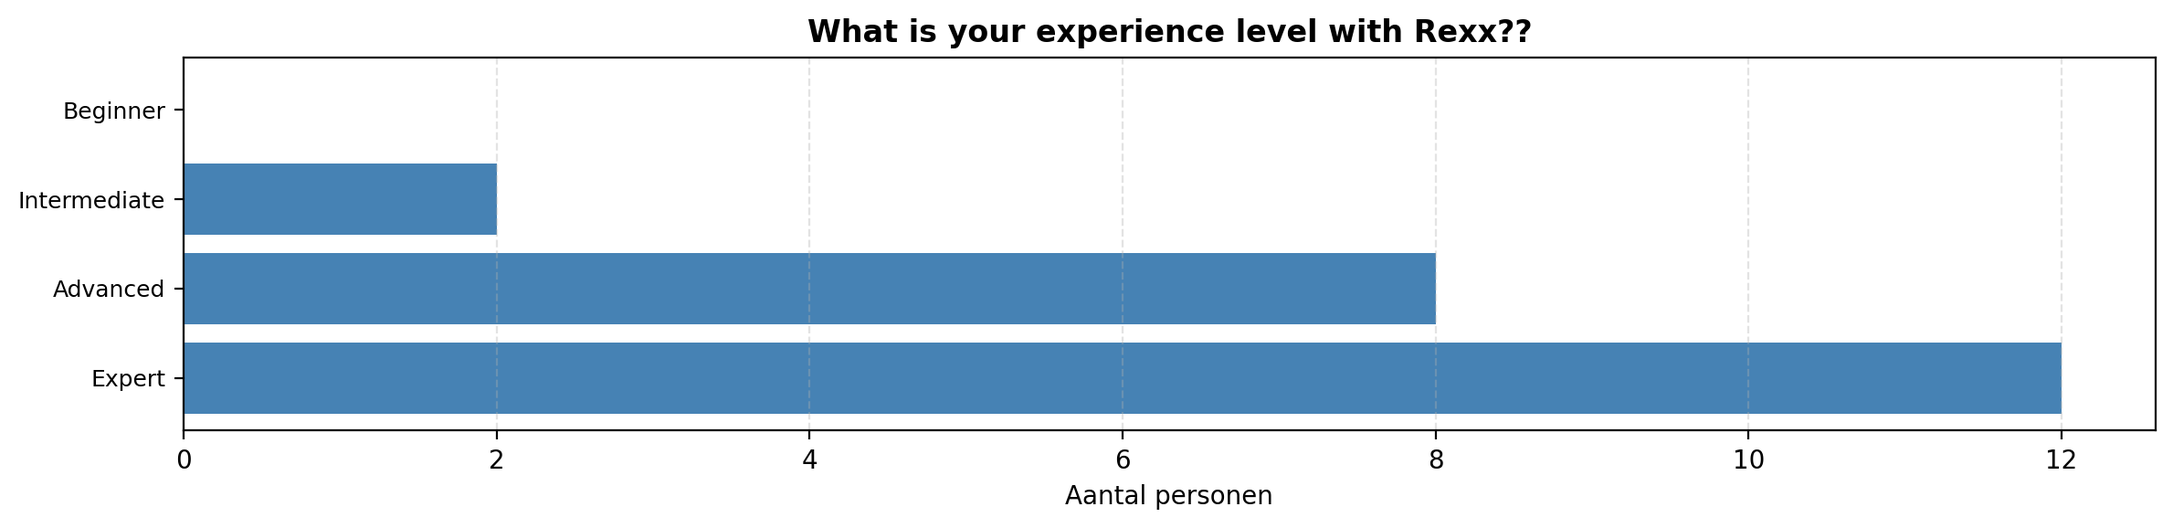
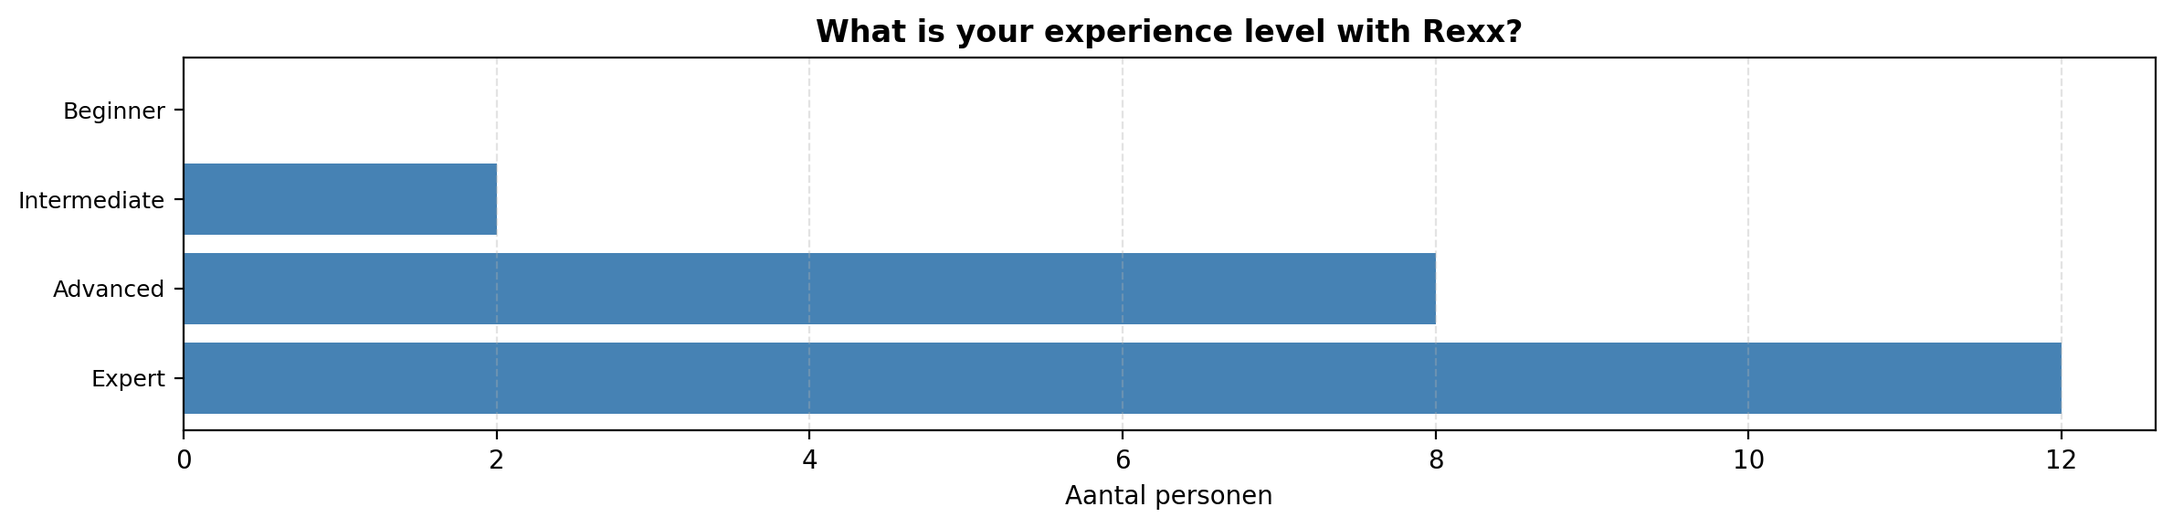
added last plot + requirements detailed

Changed region(s): [[0.3733, 0.0311, 0.7154, 0.0934]]

diff --git a/bachproef/standvanzaken.tex b/bachproef/standvanzaken.tex
@@ -33,13 +33,13 @@ Automatisatie (onderzoek) kan als volgt worden beschreven:
 
 “Automation research emphasizes efficiency, productivity, quality, and reliability, focusing on systems that operate autonomously, often in structured environments over extended periods, and on the explicit structuring of such environments.” \autocite{Goldberg2012}
 
-Automatisatie wordt niet enkel gebruikt in IT, maar het is er wel fel aanwezig. Dat komt doordat men met de hulp van automatisatie manuele taken kan uitvoeren door een programma, waardoor er meer tijd vrijkomt voor andere zaken. Automatisatie is zeker met de opkomst van virtualisatie belangrijk geworden. Virtualisatie is wanneer een server (typisch een x86 server) wordt opgesplitst in meerdere kleine servers, om zo optimaal gebruik te kunnen maken van de beschikbare resources. Om elke nieuwe kleinere server op te zetten met zijn eigen systeem, zouden elke keer dezelfde commando’s moeten worden uitgevoerd per server. Om dat te vermijden kan dat proces worden geautomatiseerd. Om ervoor te zorgen dat dit op een kwaliteitsvolle en betrouwbare manier gebeurt, kan men scripts maken, waarin met behulp van logica verschillende scenario's die zich kunnen voordoen, worden behandeld. Dit is slechts een simpel voorbeeld, maar het geeft een idee van de mogelijkheden van automatisatie.  (Interview met Bobby)
+Automatisatie wordt niet enkel gebruikt in IT, maar het is er wel fel aanwezig. Dat komt doordat men met de hulp van automatisatie manuele taken kan uitvoeren door een programma, waardoor er meer tijd vrijkomt voor andere zaken. Automatisatie is zeker met de opkomst van virtualisatie belangrijk geworden. Virtualisatie is wanneer een server (typisch een x86 server) wordt opgesplitst in meerdere kleine servers, om zo optimaal gebruik te kunnen maken van de beschikbare resources. Om elke nieuwe kleinere server op te zetten met zijn eigen systeem, zouden elke keer dezelfde commando’s moeten worden uitgevoerd per server. Om dat te vermijden kan dat proces worden geautomatiseerd. Om ervoor te zorgen dat dit op een kwaliteitsvolle en betrouwbare manier gebeurt, kan men scripts maken, waarin met behulp van logica verschillende scenario's die zich kunnen voordoen, worden behandeld. Dit is slechts een simpel voorbeeld, maar het geeft een idee van de mogelijkheden van automatisatie.  (Interview met Bobby, \ref{InterviewBobby})
 
 \subsection{Automatisatie op mainframe}
 Aangezien mainframes enkele jaren ouder zijn dan de typische consument gerichte computers, is het niet onlogisch dat automatisatie op het mainframe ook een zekere voorsprong had. Als men op het mainframe spreekt over automatisatie denkt men eerst en vooral aan zogeheten “batch jobs”. \textcites{Powell2024} beschrijft batch jobs als 'any regularly occurring automated process that groups similar tasks and performs them automatically without needing to be prompted by human interaction'. 
 
-Powell legt uit dat er grote voordelen zijn aan het gebruiken van batch jobs. Een van die voordelen is het verminderen van fouten door gebruikers, omdat de interactie met gebruikers wordt verminderd tot een minimum. Een ander voordeel van batch jobs is dat ze kunnen worden uitgevoerd op een moment ideaal voor het bedrijf. Meestal worden zulke batch jobs aan het begin of einde van de werkdag uitgevoerd, afhankelijk van hun functie. Ook worden batch jobs vaak ‘s nachts uitgevoerd, wanneer het systeem voor de rest minieme gebruikers input verwacht. Denk aan een bank die doorheen de dag voortdurend bezig is met allerhande klantgerichte zaken. Die bank kan dan ‘s nachts, wanneer de meeste mensen geen betalingen aan het uitvoeren zijn, batch jobs uitvoeren, zonder dat klanten enige vertraging merken op het systeem door de hoge werkkracht die batch jobs vragen. Om zulke batch jobs in te plannen, ook wel scheduling genoemd, wordt er op het mainframe veel gebruikgemaakt van JCL(Job Control Language). JCL komt later nog aan bod in één van de use cases van deze paper (Interview met Bobby).
-Naast batch jobs en JCL, worden er op het mainframe ook scripts geschreven om routinematige taken te automatiseren. Voorbeelden hiervan zijn het aanmaken van gebruikers, het uitdelen van rechten, het behandelen van berichten op de log, en meer. Het schrijven van deze scripts gebeurt in grote mate via JCL en REXX, afhangende van de gewenste functie.(Interview met Bobby)
+Powell legt uit dat er grote voordelen zijn aan het gebruiken van batch jobs. Een van die voordelen is het verminderen van fouten door gebruikers, omdat de interactie met gebruikers wordt verminderd tot een minimum. Een ander voordeel van batch jobs is dat ze kunnen worden uitgevoerd op een moment ideaal voor het bedrijf. Meestal worden zulke batch jobs aan het begin of einde van de werkdag uitgevoerd, afhankelijk van hun functie. Ook worden batch jobs vaak ‘s nachts uitgevoerd, wanneer het systeem voor de rest minieme gebruikers input verwacht. Denk aan een bank die doorheen de dag voortdurend bezig is met allerhande klantgerichte zaken. Die bank kan dan ‘s nachts, wanneer de meeste mensen geen betalingen aan het uitvoeren zijn, batch jobs uitvoeren, zonder dat klanten enige vertraging merken op het systeem door de hoge werkkracht die batch jobs vragen. Om zulke batch jobs in te plannen, ook wel scheduling genoemd, wordt er op het mainframe veel gebruikgemaakt van JCL(Job Control Language). JCL komt later nog aan bod in één van de use cases van deze paper (Interview met Bobby, \ref{InterviewBobby}).
+Naast batch jobs en JCL, worden er op het mainframe ook scripts geschreven om routinematige taken te automatiseren. Voorbeelden hiervan zijn het aanmaken van gebruikers, het uitdelen van rechten, het behandelen van berichten op de log, en meer. Het schrijven van deze scripts gebeurt in grote mate via JCL en REXX, afhangende van de gewenste functie.(Interview met Bobby, \ref{InterviewBobby})
 
 \subsection{Scripting}
 Zowel JCL, Rexx en Python worden omschreven als scripting talen. Scripting is een bepaalde vorm van programmeren. Een script is een programma dat vooral dient als een soort lijm tussen andere programma’s in plaats van dat het zelf veel functionaliteit toevoegt. Bij het schrijven van een script gaat men ervan uit dat er reeds programma’s met functionaliteiten bestaan, om deze met elkaar te verbinden. Zo kan Rexx bijvoorbeeld een DB2 databank aanroepen om bepaalde data uit een tabel te filteren. Die data wordt dan in een nieuwe dataset gestoken, om nadien gemaild te worden naar verschillende mensen. Al deze zaken, zoals de databank, het aanmaken van een nieuwe dataset, en de mailfunctie zijn functionaliteiten die bestaan buiten Rexx. Rexx is de lijm die ervoor zorgt dat die functionaliteiten kunnen samenwerken. \textcite{Ousterhout1998} legt uit dat scripting gebruik maakt van een andere manier van code schrijven, zonder types, wat het simpeler maakt om verschillende componenten met elkaar te verbinden, met minder restricties. Hij voorspelde dat de populariteit van scripting in de toekomst enkel zou stijgen. Dit omdat er al enorme vooruitgang was geboekt op vlak van talen. Daarnaast zou de verbeterde snelheid van computers ervoor zorgen dat de tragere scripting talen meer kansen zouden krijgen, omdat het verschil in snelheid met andere efficiëntere systeem talen, zoals assembler, minder impact zou hebben op de totale snelheid van een programma. Of beide argumenten evenveel hebben bijgedragen tot de groei van scripting, is niet voor deze bachelorproef om te stellen. Maar over de groei van scripting en automatisatie is geen twijfel mogelijk. Als laatste argument stelt \textcite{Ousterhout1998} dat de leercurve van een scripting taal vrij klein is vanwege de vaak vrij simpele syntax. Dit zorgt ervoor dat er een grotere community ontstaat, waardoor de scripting talen nog beter en populairder worden. Dit is een fenomeen dat zich heeft voorgedaan bij Python, een moderne scripting taal, die later in dit hoofdstuk nog aan bod komt \autocite{Lindstrom2005}.
@@ -105,7 +105,7 @@ Een eerste nadeel van Rexx is wat eerder werd vermeld als voordeel, dat de taal 
 Veel van de eerder vermelde nadelen van Rexx zijn voordelen van Python. Python is enorm populair, dus van een tekort aan werkkrachten is geen sprake \autocite{Sanglier2022}. Dankzij zijn populariteit heeft Python een overvloed aan externe libraries die, als de kernfunctionaliteiten van Python niet genoeg zijn, vaak een oplossing kunnen bieden voor een probleem. Het is aangeraden om eerst op zoek te gaan naar een bestaande Python library voordat men zelf begint code te schrijven om een probleem op te lossen, om te vermijden dat men het wiel opnieuw uitvindt \autocite{Lindstrom2005}. Ook op vlak van resources om Python te leren is er een overvloed. Python is vaak een van de enige talen die ook aan niet-IT’ers wordt aangeleerd, wat toont dat er geen uitgebreide achtergrondkennis nodig is om de taal onder de knie te krijgen. Als laatste kan Python zonder problemen samenwerken met allerhande moderne technologie, en zet het de deur open om in de toekomst snel in te spelen op veranderingen \autocite{Gilio2021}.
 
 \subsection{Nadelen Python}
-De populariteit van Python is kenmerkend aan het feit dat er weinig artikels te vinden zijn die praten over de nadelen van Python. De meeste artikels lijken te suggereren dat Python trager is dan andere talen die dichter bij het besturingssysteem staan, zoals Rexx. Echter kan dit, zoals eerder vermeld, niet geverifieerd worden in deze bachelorproef. Uit het interview met Bobby en uit deze blog van \textcite{Redwerk2024}, is gebleken dat een groot nadeel van Python is dat er problemen kunnen ontstaan over afhankelijkheden, ook wel dependencies genoemd. Dankzij de vele libraries en packages die Python zo goed maken, kan er soms overlap zijn in een bedrijf. Als een team met één versie van een package werkt, en code doorgeeft naar een ander team, dat met een andere versie aan het werk is, dan kunnen er conflicten ontstaan die vervelend zijn om op te lossen. Ook is uit het interview met Bobby gebleken dat Python niet dezelfde toegang heeft tot het mainframe als Rexx. Via ZOAU kan Python wel redelijk gemakkelijk communiceren met het mainframe, het komt nog altijd niet in de buurt van de verwevenheid die Rexx heeft met mainframe functionaliteiten.
+De populariteit van Python is kenmerkend aan het feit dat er weinig artikels te vinden zijn die praten over de nadelen van Python. De meeste artikels lijken te suggereren dat Python trager is dan andere talen die dichter bij het besturingssysteem staan, zoals Rexx. Echter kan dit, zoals eerder vermeld, niet geverifieerd worden in deze bachelorproef. Uit het interview met Bobby (\ref{InterviewBobby}) en uit deze blog van \textcite{Redwerk2024}, is gebleken dat een groot nadeel van Python is dat er problemen kunnen ontstaan over afhankelijkheden, ook wel dependencies genoemd. Dankzij de vele libraries en packages die Python zo goed maken, kan er soms overlap zijn in een bedrijf. Als een team met één versie van een package werkt, en code doorgeeft naar een ander team, dat met een andere versie aan het werk is, dan kunnen er conflicten ontstaan die vervelend zijn om op te lossen. Ook is uit het interview met Bobby (\ref{InterviewBobby}) gebleken dat Python niet dezelfde toegang heeft tot het mainframe als Rexx. Via ZOAU kan Python wel redelijk gemakkelijk communiceren met het mainframe, het komt nog altijd niet in de buurt van de verwevenheid die Rexx heeft met mainframe functionaliteiten.
 
 \subsection{Overzicht}
 In tabel \ref{tab:example} kan er een overzicht worden teruggevonden van enkele elementen waar Rexx en Python al dan niet goed op scoren. De vinkjes beteken enkel dat er een duidelijke winnaar is, niet dat de verliezer de vermelde functionaliteit helemaal niet heeft. Deze tabel geldt enkel als overzicht van de voor-en nadelen die in deze sectie zijn vermeld.

diff --git a/bachproef/Requirementsanalyse.tex b/bachproef/Requirementsanalyse.tex
@@ -2,19 +2,21 @@
 \label{ch:requirementsanalyse}
 
 
-In de requirementsanalyse worden twee vragen beantwoord. Ten eerste wordt er bepaald welke use cases of functies zullen worden uitgevoerd in de PoC's om Python en Rexx aan elkaar te vergelijken. Ten tweede wordt er bepaald aan de hand van welke succescriteria zal worden bepaald of een use case succesvol kan worden uitgevoerd door een van beide talen.
+In de requirementsanalyse worden twee vragen beantwoord. Ten eerste wordt er bepaald welke use cases of functies zullen worden uitgevoerd in de PoC's om Python en Rexx aan elkaar te vergelijken. Ten tweede wordt er bepaald welke succescriteria zullen worden gebruikt om de uitvoering van een use case door de twee talen te vergelijken.
 
-Er worden verschillende methodes toegepast om deze requirements te verkrijgen. Er worden interviews uitgevoerd, en daarnaast wordt een enquête opgesteld, om zo input te krijgen van de mainframe gemeenschap.
+Er worden verschillende methodes toegepast om deze requirements te verkrijgen. Er worden interviews uitgevoerd, en daarnaast wordt een enquête opgesteld, om zo input te krijgen van de mainframe gemeenschap. Ook de input van de co-promotor wordt gebruikt om de knoop door te hakken bij de keuze over welke requirements uiteindelijk worden gebruikt.
 
 \section{Interviews}
-Omdat de enquête genoeg reacties heeft gebracht, was het niet nodig om meerdere interviews te doen om input te verkrijgen. Er is wel een interview gedaan met Emma Skovgård. Emma staat bekent als grote Python enthousiast voor het z/OS platform. Een groot deel van de mensen die momenteel met mainframes werken, heeft een voorkeur voor de huidige tools. Daarom bracht dit interview een grote meerwaarde om de huidige stand van zaken, en de toekomst van het mainframe te zien door de lens van iemand die er waarschijnlijk nog vrij lang mee gaat werken. Dit interview heeft voornamelijk bijgedragen aan de stand van zaken en de eerste vergelijking tussen Rexx en Python. Voor de use cases en requirements heeft Emma ook de enquête ingevuld, dus haar input komt daar ook terug.
+Omdat de enquête veel reacties heeft gebracht, was het niet nodig om meerdere interviews af te nemen om input te verkrijgen. Er is wel een interview gedaan met Emma Skovgård. Emma werkt als 'Information Security Professional' en staat bekent als grote Python enthousiast voor het z/OS platform, en is heel actief in de mainframe community, zowel op Linkedin als op de Discord gemeenschap. Een groot deel van de mensen die momenteel met mainframes werken, heeft een voorkeur voor de tools die al jaren de standaard zijn. Daarom bracht dit interview een grote meerwaarde om de huidige stand van zaken en de toekomst van het mainframe te zien door de lens van iemand die er waarschijnlijk nog vrij lang mee gaat werken. Dit interview heeft voornamelijk bijgedragen aan het hoofdstuk over de stand van zaken en aan de eerste vergelijking tussen Rexx en Python gedaan in de literatuurstudie. Voor de use cases en requirements heeft Emma ook de enquête ingevuld, dus haar input komt daar ook terug.
 
-Er zijn daarnaast verschillende sessies met de co-promoter van deze bachelorproef georganiseerd. Een van die sessies wordt beschouwd als interview, omdat daar voornamelijk informatie en kennis over de geschiedenis van het mainframe en automatisatie in werd besproken. Dit interview draagt op die manier opnieuw voornamelijk bij aan de stand van zaken.
+Er zijn daarnaast verschillende sessies met de co-promoter van deze bachelorproef georganiseerd, Bobby Tjassens. Bobby is een ervaren system programmer en ook heel actief in de gemeenschap. Een van die sessies wordt beschouwd als interview, omdat daar voornamelijk informatie en kennis over de geschiedenis van het mainframe en automatisatie in werd besproken. Dit interview draagt op die manier opnieuw voornamelijk bij aan de stand van zaken.
+
+Zowel Emma als Bobby zijn (mede)developers van een open source project, genaamd \href{https://github.com/Mainframe-Renewal-Project/sear/tree/main}{SEAR}. SEAR komt later nog aan bod in dit onderzoek.
 
 \section{Enquête}
 De bedoeling van de enquête was om zoveel mogelijk input te verkrijgen van de mainframe gemeenschap, omdat de resultaten van dit onderzoek mede bedoeld zijn voor die doelgroep. Daarnaast is de gemeenschap zodanig klein en behulpzaam dat dit een goede manier leek om discussies gaande te krijgen en zo nog meer input te verkrijgen. De enquête is op het moment van schrijven en verwerking van de resultaten 22 keer ingevuld. Daarnaast is er ook veel reactie gekomen op de Linkedin post om de enquête te promoten. Al die reacties samen hebben ervoor gezorgd dat er meer dan voldoende requirements en use cases zijn verzameld om uit te kiezen voor dit onderzoek. De enquête is als bijlage toegevoegd in \ref{ch:Enquete}.
-    
-Voordat de resultaten van de enquête worden geanalyseerd, is het essentieel om de demografische kenmerken van de respondenten te bekijken. Als die te eenzijdig is, bijvoorbeeld enkel studenten, mensen met een sterke taalvoorkeur of anonieme deelnemers, zou dat de waarde van de resultaten beperken. In de afbeeldingen \ref{fig:mainframe-exp}, \ref{fig:rexx-exp} and \ref{fig:python-exp}.
+
+Voordat de resultaten van de enquête kunnen worden geanalyseerd, is het essentieel om de demografische kenmerken van de respondenten te bekijken. Als die te eenzijdig zijn, bijvoorbeeld enkel studenten, mensen met een sterke taalvoorkeur of anonieme deelnemers, zou dat de waarde van de resultaten beperken. In de afbeeldingen \ref{fig:mainframe-exp}, \ref{fig:rexx-exp}, \ref{fig:python-exp} en \ref{fig:personal-info} worden de demografische kenmerken afgebeeld. Uit deze afbeeldingen valt af te leiden dat het algemene ervaringsniveau met mainframe vrij hoog ligt. Hetzelfde geldt voor de ervaring met Rexx. Deze twee kunnen natuurlijk aan elkaar gelinkt zijn. De ervaring met Python is een pak minder. Een mogelijke reden kan zijn dat een groot deel van de correspondenten ervaren mainframers zijn die nog niet veel ervaring hebben met nieuwere talen zoals Python. Een andere mogelijke reden kan zijn dat Rexx een taal is die zo goed als elke mainframer moet kennen, terwijl Python een (tot zover) optionele taal is om te kunnen werken met mainframe. Beide zijn mogelijk, maar geen van beide is zeker, dus worden er verder geen conclusies getrokken uit deze afbeeldingen verder dan dat het ervaringsniveau hoog genoeg is, vooral met mainframe en Rexx, om de gegeven requirements als geloofwaardig te beschouwen. Hetzelfde geldt voor de laatste afbeelding (\ref{fig:personal-info}), waarop te zien is hoeveel correspondenten hun naam en/of contactgegevens achterlieten. Hoewel dit niks zegt over de waarde van hun antwoorden, kan dit wel een indicatie geven over de intentie van het invullen van de enquête. Als iemand zijn of haar naam achterlaat, kan er geverifieerd worden dat de antwoorden afkomstig zijn van een echt persoon, en kan hun achtergrond worden bekeken om te zien of die overeenkomt met de gegeven antwoorden. Hoewel het nog steeds mogelijk is dat iemand een valse naam opgeeft, wordt er in dit onderzoek vanuit gegaan - gezien hoe klein en behulpzaam de mainframe gemeenschap is - dat bijna alle antwoorden afkomstig zijn van echte mensen met goede bedoelingen. In het slechtste geval kan er worden teruggevallen op de ervaring van de co-promotor van dit onderzoek om de geloofwaardigheid en haalbaarheid van bepaalde use cases en requirements te verifiëren.
 
 \begin{figure} [h]
     \centering
@@ -32,6 +34,12 @@ Voordat de resultaten van de enquête worden geanalyseerd, is het essentieel om 
     \centering
     \includegraphics[width=1\textwidth]{demografie-python-experience.png}
     \caption[Afbeelding die de python ervaring voorstelt van de mensen die de enquête hebben ingevuld]{\label{fig:python-exp}De jaren ervaring met Python op z/OS door de correspondenten van de enquête.}
+\end{figure}
+
+\begin{figure} [h]
+    \centering
+    \includegraphics[width=1\textwidth]{demografie-personal-info-share.png}
+    \caption[Afbeelding die weergeeft hoeveel mensen hun naam en/of contactgegevens hebben achtergelaten]{\label{fig:personal-info}De hoeveelheid mensen die gegevens hebben achtergelaten op de enquête.}
 \end{figure}
 
 

diff --git a/bachproef/interviews.tex b/bachproef/interviews.tex
@@ -1,2 +1,29 @@
 \chapter{Interviews}%
 \label{ch:Interviews}
+
+\section{Interview met Emma Skovgård}
+\label{InterviewEmma}
+
+\section{Interview met Bobby Tjassens}
+\label{InterviewBobby}
+\textbf{Vincent: Wat is jouw blik op de geschiedenis van automation op Z?}
+
+
+Bobby:
+Ik ben begonnen in 1998, zo'n beetje rond de tijd dat het mainframe voor 't eerst voorspeld werd end of life te zijn (zal je niet verbazen: is niet uit is gekomen). Dat was ook de tijd dat client-server zijn opkomst had. Voor die tijd was het mainframe, voor de bedrijven die er eentje hadden, ook meteen het énige dat ze hadden. Het mainframe stond volledig op zichzelf, alles wat nodig was draaide op diezelfde box en ondanks dat er toen nog niemand gehoord had van automation, was automation volop aanwezig. Daarmee bedoel ik vooral scheduling van jobs (JCL) en scripts voor routinematige taken (opvoeren users, uitdelen rechten, afhandeling van messages op de log door system automation, compileren en link-edit van applicatie programma's, etc.).
+
+Client-server was de benaming voor de exponentiële groei van X86 servers met applicaties en grafische user interfaces. Veel van die applicaties hadden behoefte aan de data op het mainframe en dat veroorzaakte een grote verschuiving van online transactieverkeer van terminal based naar service oriented. Ondanks dat het mainframe niet langer volledig op zichzelf stond (want zonder de X86 componenten = geen applicatie voor de eindgebruiker) bleef het mainframe het grotendeels "op z'n mainframes" doen. Dit was een tijd van veel arrogatie op het mainframe, de X86 betrokkenen hebben veel problemen ervaren die het mainframe misschien jaren geleden ook had, maar al geruime tijd had opgelost (op hun eigen manier). Er was naar mijn mening maar weinig kruisbestuiving, hooguit in de vorm van cross-platform scheduling (waarbij mainframe de regie nam).
+
+Met de komst van server virtualisatie is de exponentiële groei van X86 nog een factor groter geworden en ik denk dat, wat we vandaag de dag verstaan onder "automation", toen geboren is omdat het simpelweg te tijdrovend werd om elke server handmatig te bouwen, in te richten en in gebruik te nemen. Intussen groeide daarnaast een scala aan wereldwijde communities waarin veel online gedeeld werd. De arrogatie op Z bleef, terwijl ik denk dat we toendertijd al veel van elkaar hadden kunnen leren. Veel automation op X86 was niet van toepassing op Z (wij rollen niet tientallen nieuwe LPARs uit per week), maar een heleboel was wel degelijk ook interessant op Z. Denk aan test automation, automated deployment, observability (al heette dat toen nog niet zo), etc.
+
+Intussen stond automation op Z natuurlijk niet stil, het mainframe is vrolijk door gegaan met meer scripting, o.a. ook voor die zaken waar X86 op hun manier mee bezig waren, maar tot aan (naar mijn mening) dit 'tijdstip' was dat met de middelen traditioneel aanwezig op Z, dus JCL, REXX, en een greep aan meer exotische programmeertalen.
+'Tijdstip' tussen aanhalingstekens want zoiets gaat geleidelijk natuurlijk, maar ergens rond deze tijd zijn een aantal processen 'ingehaald' door de boze buitenwereld. Aan bepaalde ideeën/processen/technologieën is simpelweg buiten Z door zó veel meer mensen gesleuteld, die communities zijn gewoon zó veel groter, dat bepaalde wereldwijde standaarden vanzelf ontstaan, een dat zijn er geen die op Z zijn geboren.
+
+Vanaf nu moet het mainframe op sommig gebied achter anderen aan hollen. Begrijp me niet verkeerd, ik denk tot op de dag van vandaag dat het mainframe een verdiende eerste plek heeft in large enterprises en dat veel potentie onbenut blijft, maar de wereld om het mainframe heen is inmiddels fundamenteel veranderd en wij bewegen (te) langzaam mee.
+
+De afgelopen jaren zie je dat voor die bepaalde processen/technologieën de rollen zijn omgedraaid en het mainframe moet volgen. Denk aan centrale logging in Splunk, denk aan standaard messaging als Kafka, denk aan Git en Azure/DevOps (of vergelijkbaar), denk aan Ansible, denk aan OpenAPI en denk nu recentelijk aan AI. Het gaat dus (vind ik) verder dan alleen het feit dat de volgende generatie onbekend is met de mainframe manier van werken, ik ben overtuigd dat sommige oplossing buiten Z echt béter zijn.
+
+Het effect op automation is dat onderdelen van de automation op Z moet integreren met de buitenwereld. Dat kan betekenen dat de scripting op Z van buitenaf aanroepbaar moet zijn, maar ook andersom, dus dat Z zelf calls naar buiten de Z-omgeving moet doen en in beide gevallen moeten wij ons conformeren aan de protocollen/interfaces van buitenaf. Tegelijkertijd heeft het mainframe wel z'n reputatie hoog te houden als stabiel platform waarop (bijna) alles blijft draaien wat jaren geleden is ontwikkeld. Je kunt dus niet zo maar even alles omgooien. Hierin past jouw onderzoek als gegoten want ik denk dat sommige bedrijven best wel worstelen met waar die grens dan precies ligt. Al je scripting weggooien en opnieuw schrijven in Python is te kostbaar (en ondoenlijk), dus concentreert zich dat herschrijven denk ik op het snijvlak met andere platformen.
+
+Soms benijd ik de nieuwe generatie wel eens vanwege de rijke omgeving waarin ze terecht komen. En soms heb ik compassie met ze omdat ik zelf al af en toe moeite heb nieuwe technologieën maar te blijven opstapelen op wat ik al weet, en de dat is waar de nieuwelingen vandaag starten. Daarom is het belangrijk dat we als Z platform bepaalde keuzes wél zwart-wit maken en afscheid nemen van bepaalde, soms verouderde, technologieën, al is het maar om het brede scala aan tools en talen voor een doorsnee mens behapbaar te houden. We hebben dus nood aan standaardisatie over Z shops heen zodat iemand die bij mainframe site A heeft gewerkt ook bij B, C en D kan werken.
+Desondanks vind ik dat zowel REXX als Python (voorlopig) een plek in die standaard gereedschapskist moeten hebben.

diff --git a/extra/form/plot_demografie.py b/extra/form/plot_demografie.py
@@ -19,10 +19,15 @@ COLUMNS_TO_ANALYZE: Final[list[str]] = [
     "What is your experience level with Rexx?",
 ]
 
+PERSONAL_INFO_COLUMN: Final[str] = (
+    "Feel free to share your personal information (name, role, company, ...). This is not mandatory."
+)
+
 OUTPUT_FILENAMES: Final[dict[str, str]] = {
     "mainframe_experience": "demografie-mainframe-experience.png",
     "python_experience": "demografie-python-experience.png",
     "rexx_experience": "demografie-rexx-experience.png",
+    "personal_info_share": "demografie-personal-info-share.png",
 }
 
 # Custom sort order for each field (from smallest/least to largest/most)
@@ -44,6 +49,10 @@ SORT_ORDER: Final[dict[str, list[str]]] = {
         "Intermediate",
         "Advanced",
         "Expert",
+    ],
+    "personal_info_share": [
+        "Filled",
+        "Empty",
     ],
 }
 
@@ -89,6 +98,24 @@ def _read_excel_data() -> dict[str, list[ItemCount]]:
             data[section_key] = items
         else:
             print(f"Warning: Column '{column_name}' not found in Excel file")
+
+    # Handle personal information share field separately (filled vs empty)
+    if PERSONAL_INFO_COLUMN in df.columns:
+        values = df[PERSONAL_INFO_COLUMN]
+
+        # Count filled values (non-null, non-empty after trimming) and empty values
+        filled = int(
+            values.apply(lambda v: pd.notna(v) and str(v).strip() != "").sum()
+        )
+        total = int(len(values))
+        empty = total - filled
+
+        data["personal_info_share"] = [
+            ItemCount("Filled", filled),
+            ItemCount("Empty", empty),
+        ]
+    else:
+        print(f"Warning: Column '{PERSONAL_INFO_COLUMN}' not found in Excel file")
 
     return data
 
@@ -169,8 +196,9 @@ def main() -> None:
     # Generate plots
     section_config = {
         "mainframe_experience": "How long have you been working on Mainframes?",
-        "python_experience": "What is your experience level with Python (on z/OS)??",
-        "rexx_experience": "What is your experience level with Rexx??",
+        "python_experience": "What is your experience level with Python (on z/OS)?",
+        "rexx_experience": "What is your experience level with Rexx?",
+        "personal_info_share": "Personal info shared (filled vs empty)",
     }
 
     for section_key, title in section_config.items():

diff --git a/extra/todo.md b/extra/todo.md
@@ -3,5 +3,3 @@
 ## Schrijven
 
 - verwerk interview met Emma in literatuurstudie (vooral in hoofdstuk 2.5)
-- data plot maken met hoeveel correspondenten hun naam hebben gegeven
-  - plots analyseren
